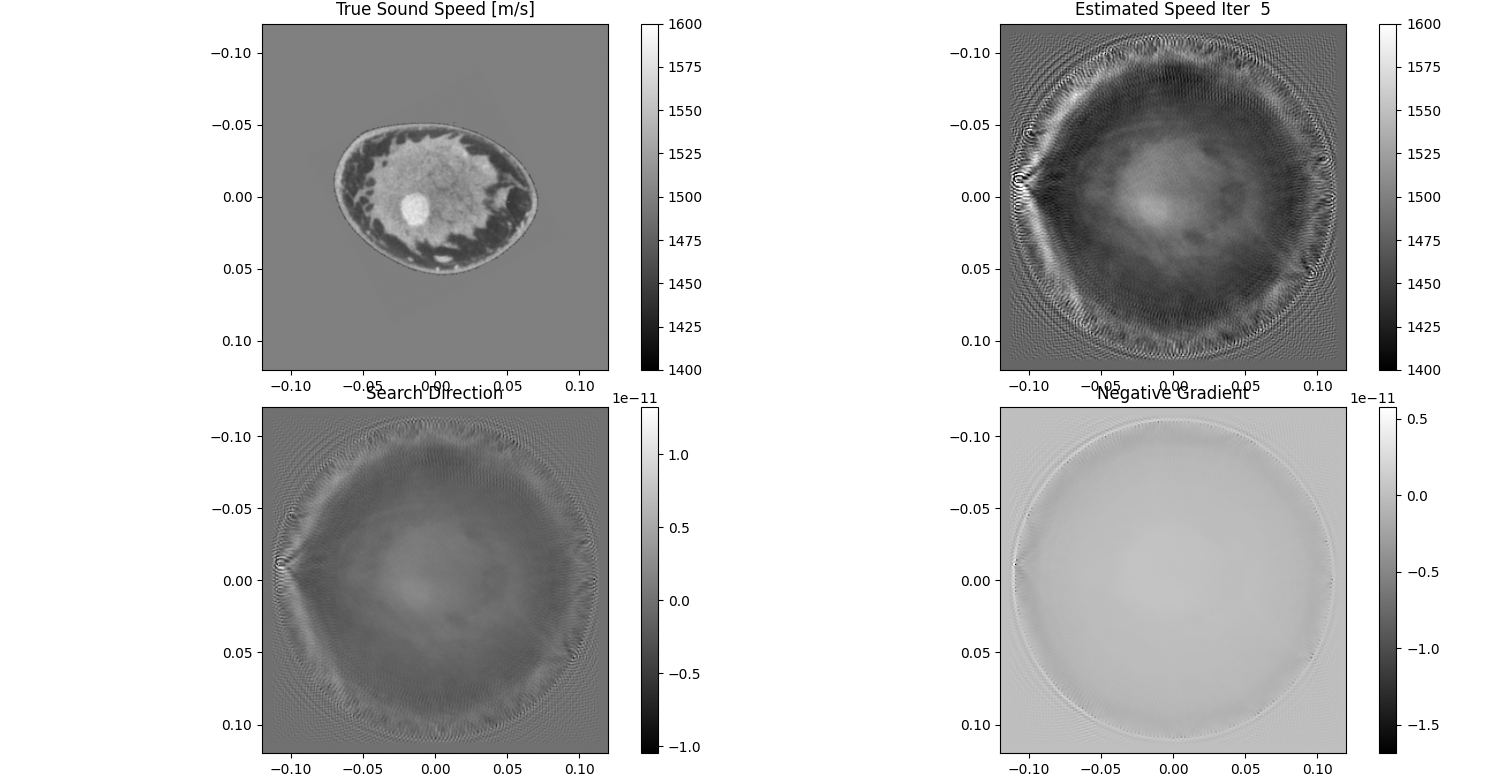
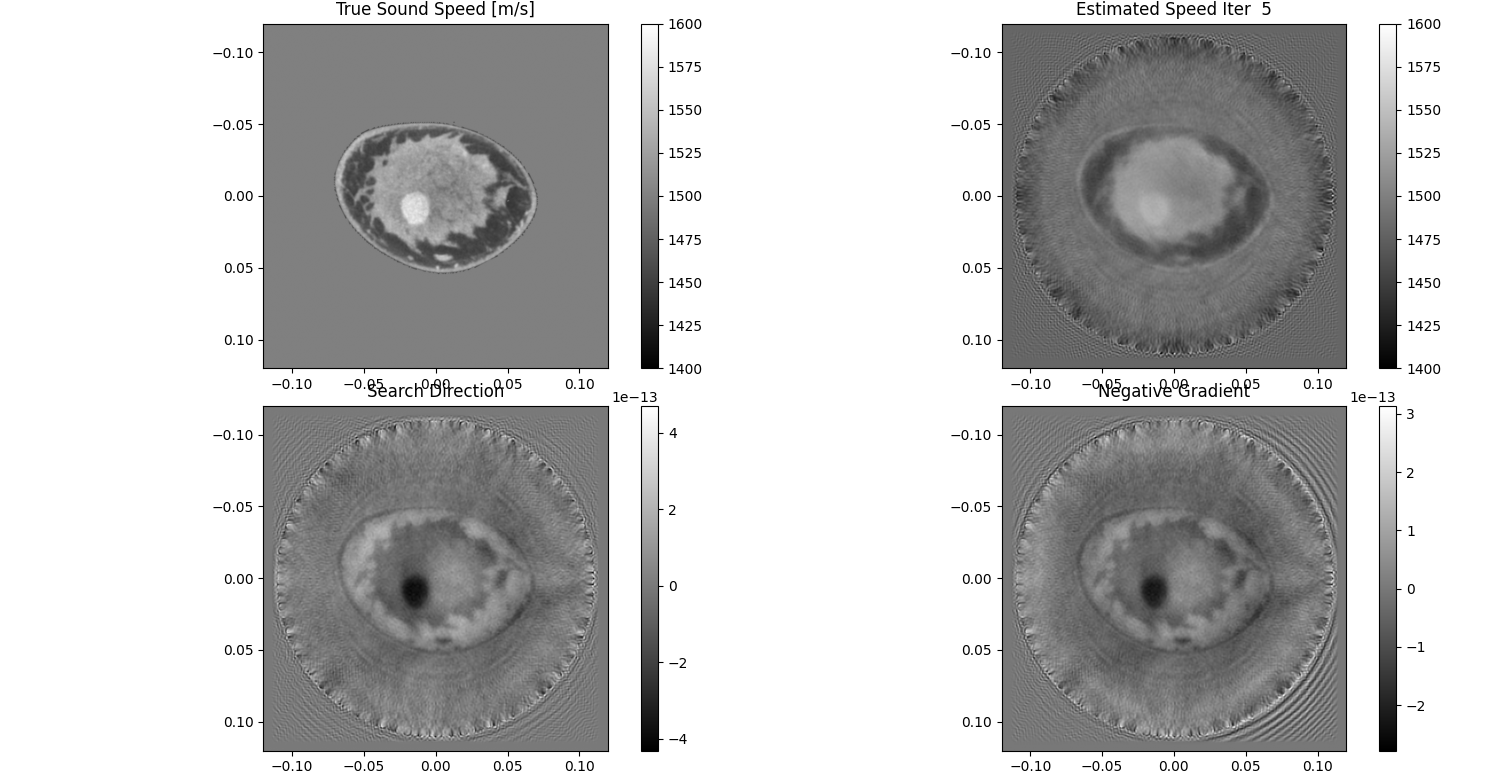
.

diff --git a/Lecture19_Fwi/solve_helmholtz.py b/Lecture19_Fwi/solve_helmholtz.py
@@ -2,16 +2,29 @@ import jax.numpy as jnp
 from jax.scipy.linalg import solve
 from jax import jit
 import jax
+import numpy as np
 
 from jax.experimental.sparse.linalg import spsolve
 
-# from scipy.sparse.linalg import spsolve
+from scipy.sparse.linalg import spsolve as spsolve_cpu
+from scipy.sparse import csc_matrix
+from scipy.sparse import csr_matrix
 from jax.experimental import sparse as jsparse
 
 # time analysis with tic toc
 import time
 
+from jax.experimental import host_callback
 
+
+def scipy_solve(data, indices, indptr, rhs_np, shape):
+    NxNy = shape[0]
+    mat = csr_matrix((data, indices, indptr), shape=(NxNy, NxNy))
+    return spsolve_cpu(mat, rhs_np)
+
+
+# @jit
+# @partial(jax.jit, static_argnames=["assemble_Helmholtz"])
 @jit
 def solve_helmholtz(x, y, vel, src, f, a0, L_PML, adjoint):
     sign_convention = -1
@@ -57,29 +70,12 @@ def solve_helmholtz(x, y, vel, src, f, a0, L_PML, adjoint):
     # show
 
     H_bcoo = assemble_Helmholtz(Nx, Ny, g, b, d, e, h, A, B, C, k)
-    # print("Assembled Helmholtz matrix.")
-    # print("H_bcoo", H_bcoo.shape)
-    # 1) Elige la matriz correcta: H o H^*
-    # if adjoint:
-    #     H_t = H_bcoo.transpose()  # sigue siendo BCOO
-    #     H_use = jsparse.BCOO((jnp.conj(H_t.data), H_t.indices), shape=H_t.shape)
-    #     # H_bcoo = H_bcoo.transpose()
-    #     # H_bcoo = H_bcoo.conjugate()
-    # else:
-    #     H_use = H_bcoo
-    #     import jax.lax as lax
 
     H_use = jax.lax.cond(
         adjoint,
         lambda H: jsparse.BCOO(
             (jnp.conj(H.transpose().data), H.transpose().indices), shape=H.shape
         ),
-        # lambda H: jsparse.BCOO(
-        #     (H.transpose().data, H.transpose().indices), shape=H.shape
-        # ),
-        # lambda H: jsparse.BCOO(
-        #     (H.transpose().data, H.transpose().indices), shape=H.shape
-        # ),
         lambda H: H,
         H_bcoo,
     )
@@ -89,27 +85,30 @@ def solve_helmholtz(x, y, vel, src, f, a0, L_PML, adjoint):
 
     # reshape src to Nx*Ny and -1 to get the right shape
     rhs = jnp.reshape(src, (Nx * Ny, -1))
-    # print("rhs shape", rhs.shape)
-    # Change type to complex64
     rhs = jnp.array(rhs, dtype=jnp.complex64)
 
     data, indices, indptr = H_use.data, H_use.indices, H_use.indptr
-    # print(H_use.indices)
-    # print("non empty values", H_use.data[H_use.data != 0].sum())
-    # print("Solving system...")
-    # sol = spsolve(data, indices, indptr, rhs)
-    # tic toc for time analysis
 
-    # start = time.time()
+    start = time.time()
 
-    sol = jnp.stack(
-        [spsolve(data, indices, indptr, rhs[:, i]) for i in range(rhs.shape[1])], axis=1
+    # sol = jnp.stack(
+    #     [spsolve(data, indices, indptr, rhs[:, i]) for i in range(rhs.shape[1])], axis=1
+    # )
+    sol = jax.pure_callback(
+        scipy_solve,
+        jax.ShapeDtypeStruct((Nx * Ny, rhs.shape[1]), dtype=jnp.complex64),
+        data,
+        indices,
+        indptr,
+        rhs,
+        (Nx * Ny, Nx * Ny),
     )
+    # sol = spsolve(data, indices, indptr, rhs)
     # sol = spsolve(data, indices, indptr, rhs)
     # A = csc_matrix((data, indices, indptr), shape=(Nx * Ny, Nx * Ny))
     # sol = spsolve(H_use, rhs)
-    # end = time.time()
-    # print("Time taken to solve system:", end - start)
+    end = time.time()
+    print("Time taken to solve system:", end - start)
 
     return sol.reshape(Ny, Nx, -1)
 
@@ -299,10 +298,6 @@ def assemble_Helmholtz(Nx, Ny, g, b, d, e, h, A, B, C, k):
 
     # 8) Assemble sparse COO
     H = jsparse.BCOO((vals, jnp.stack([rows, cols], axis=1)), shape=(Nx * Ny, Nx * Ny))
-    # H = csr_matrix((vals, (rows, cols)), shape=(Nx * Ny, Nx * Ny))
-    # H = csr_matrix(
-    #     (np.array(vals), (np.array(rows), np.array(cols))), shape=(Nx * Ny, Nx * Ny)
-    # )
 
     return H
 

diff --git a/Lecture19_Fwi/fwi_script.py b/Lecture19_Fwi/fwi_script.py
@@ -25,7 +25,7 @@ def main():
     # f = float(data["f"])
     # REC_DATA = data["REC_DATA"].astype(np.complex64)
 
-    data = mat73.loadmat("RecordedData3.mat", use_attrdict=True)
+    data = mat73.loadmat("RecordedData.mat", use_attrdict=True)
     x = jnp.array(data["x"], dtype=jnp.float32)
     y = jnp.array(data["y"], dtype=jnp.float32)
     C = jnp.array(data["C"], dtype=jnp.float32)
@@ -49,7 +49,7 @@ def main():
     REC_DATA = REC_DATA[tx_include, :]
 
     # build mask elemInclude
-    numElemLR = 3
+    numElemLR = 31
     arangeLR = jnp.arange(-numElemLR, numElemLR + 1)
     elemInclude = jnp.ones((num_elements, num_elements), dtype=bool)
     for tx in range(num_elements):
@@ -72,8 +72,6 @@ def main():
     # ind_matlab = x_idx * Nyi + y_idx
     ind_matlab = y_idx * Nyi + x_idx
 
-    print("ind_matlab shape:", ind_matlab.shape)
-    print(ind_matlab)
     xc = x_circ.ravel()  # shape (M,)
     yc = y_circ.ravel()  # shape (M,)
 
@@ -81,14 +79,6 @@ def main():
     y_idx = jnp.argmin(jnp.abs(yi[None, :] - yc[:, None]), axis=1)
 
     ind_matlab = x_idx * Nxi + y_idx  # Row majo
-
-    print("ind_matlab shape:", ind_matlab.shape)
-    print(ind_matlab)
-
-    # save ind_matlab as mat file
-    from scipy.io import savemat
-
-    savemat("ind_matlab2.mat", {"ind_matlab2": ind_matlab})
 
     # ind_matlab = np.ravel_multi_index((y_idx, x_idx), dims=(Nyi, Nxi), order="c")
     # build source array (one hot per tx)
@@ -110,56 +100,19 @@ def main():
     # 4) FWI
     # -------------------------
     c_init = 1480.0
-    Niter = 5  # prueba rápida
+    Niter = 10  # prueba rápida
     VEL = c_init * jnp.ones((Nyi, Nxi))
     print("Initial VEL shape:", VEL.shape)
 
-    # for t in range(len(tx_include)):
-    #     mask = mask_indices[t]  # array de 193 índices 0-based
-    #     REC= REC_DATA[t, mask]  # == REC(:)
-    #     break
-    # #export elemInclude as mat logical file
-    # from scipy.io import savemat
-    # savemat("REC.mat", {"REC1": REC})
+    # solve Helmholtz equation
+    print("Solving Helmholtz equation...")
+    # H_cpu = solve_helmholtzcpu(xi, yi, VEL, SRC, f, a0, L_PML, False)
 
-    # WV = solve_helmholtz(xi, yi, VEL, SRC, f, a0, L_PML, False)
+    # H = solve_helmholtz(xi, yi, VEL, SRC, f, a0, L_PML, False)
 
-    # print("WV shape:", WV.shape)
+    # print("Solving Helmholtz equation cpu...")
 
-    # vmin, vmax = -1e-14, 1e-14
-
-    # # show first wavefield
-    # plt.imshow(
-    #     jnp.abs(WV[:, :, 0]),
-    #     extent=[xi.min(), xi.max(), yi.max(), yi.min()],
-    #     cmap="gray",
-    #     origin="upper",
-    # )
-    # plt.title("Wavefield")
-    # plt.show()
-
-    # plt.imshow(
-    #     jnp.real(WV[:, :, 0]),
-    #     extent=[xi.min(), xi.max(), yi.max(), yi.min()],
-    #     cmap="gray",
-    #     origin="upper",
-    #     vmin=vmin,
-    #     vmax=vmax,
-    # )
-    # plt.title("Wavefield")
-    # plt.show()
-    # plt.imshow(
-    #     jnp.imag(WV[:, :, 0]),
-    #     extent=[xi.min(), xi.max(), yi.max(), yi.min()],
-    #     cmap="gray",
-    #     origin="upper",
-    #     vmin=vmin,
-    #     vmax=vmax,
-    # )
-    # plt.title("Wavefield")
-    # plt.show()
-
-    print("Running Nonlinear Conjugate Gradient...")
+    #     print("Running Nonlinear Conjugate Gradient...")
     VEL_F, SD_F, GRAD_F, ADJ_WV, WV = nonlinear_conjugate_gradient(
         xi,
         yi,
@@ -177,6 +130,7 @@ def main():
         explicit_indices,
         mask_indices,
     )
+
     vmin, vmax = -1e-14, 1e-14
 
     plt.figure(figsize=(12, 10))

diff --git a/Lecture19_Fwi/FrequencyDomainFWI.m b/Lecture19_Fwi/FrequencyDomainFWI.m
@@ -5,7 +5,7 @@ clc
 addpath(genpath('Functions'));
 
 % Load Problem Data
-load('RecordedData3.mat', 'x', 'y', 'C', ...
+load('RecordedData.mat', 'x', 'y', 'C', ...
     'x_circ', 'y_circ', 'f', 'REC_DATA');
 numElements = numel(x_circ); % Number of Transducer Elements
 assert(numElements == numel(y_circ));
@@ -15,9 +15,11 @@ dwnsmp = 1; % can be 1, 2, or 4 (faster with more downsampling)
             % NOTE: dwnsmp = 1 to get the results in the paper
 tx_include = 1:dwnsmp:numElements;
 REC_DATA = REC_DATA(tx_include,:); 
-
+disp('naomi')
+disp(num2str(norm(REC_DATA(:))))
+disp('salio')
 % Extract Subset of Signals within Acceptance Angle
-numElemLeftRightExcl = 3;
+numElemLeftRightExcl = 31;
 elemLeftRightExcl = -numElemLeftRightExcl:numElemLeftRightExcl;
 elemInclude = true(numElements, numElements);
 for tx_element = 1:numElements 
@@ -32,7 +34,7 @@ end
 %% Frequency-Domain Full Waveform Inversion (FWI)
 
 % Parameters for Conjugate Gradient Reconstruction
-Niter = 1; % Number of Iterations
+Niter = 5; % Number of Iterations
 momentumFormula = 4; % Momentum Formula for Conjugate Gradient
                      % 0 -- No Momentum (Gradient Descent)
                      % 1 -- Fletcher-Reeves (FR)
